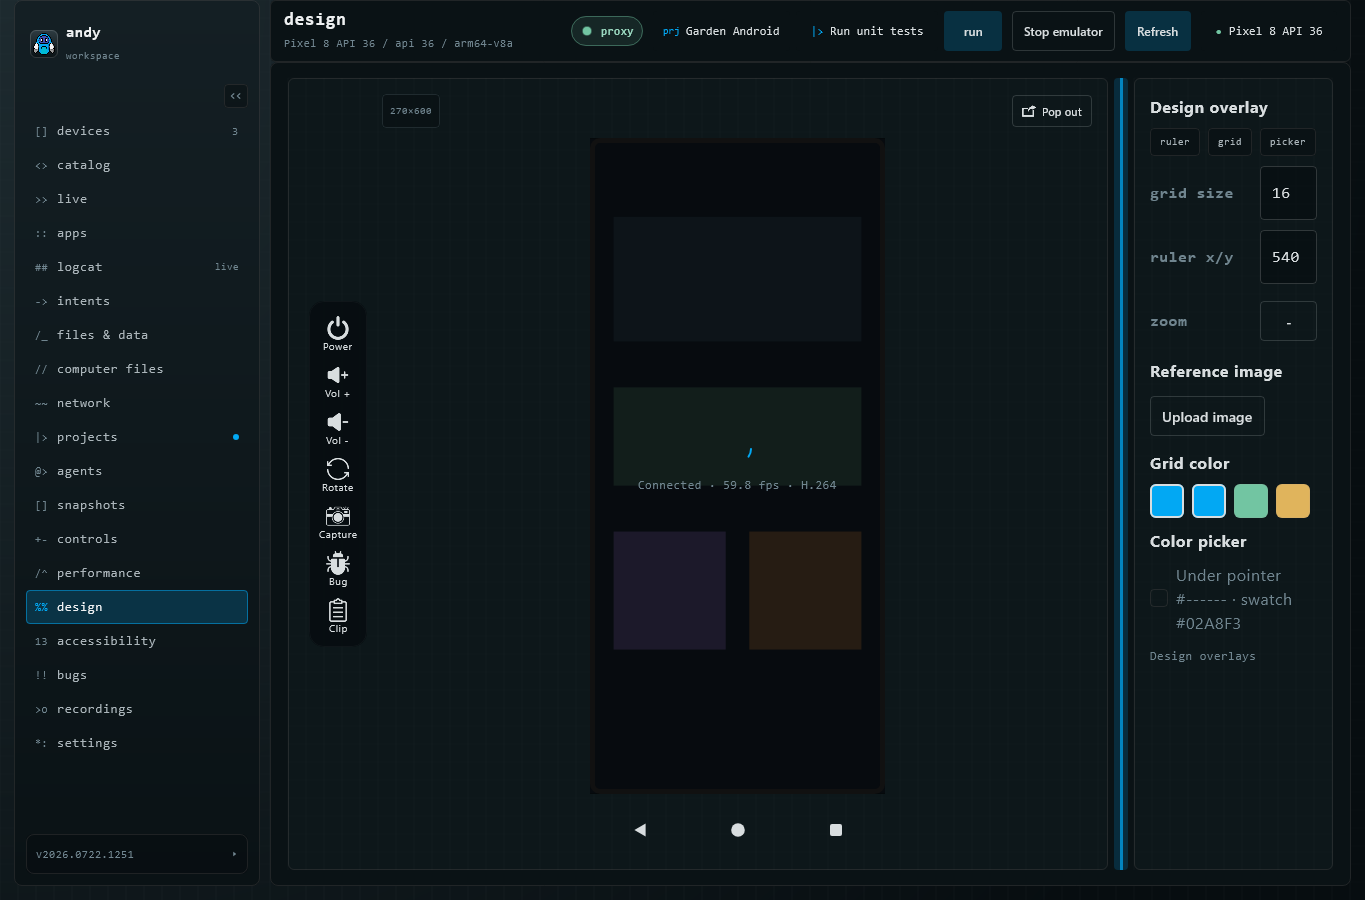
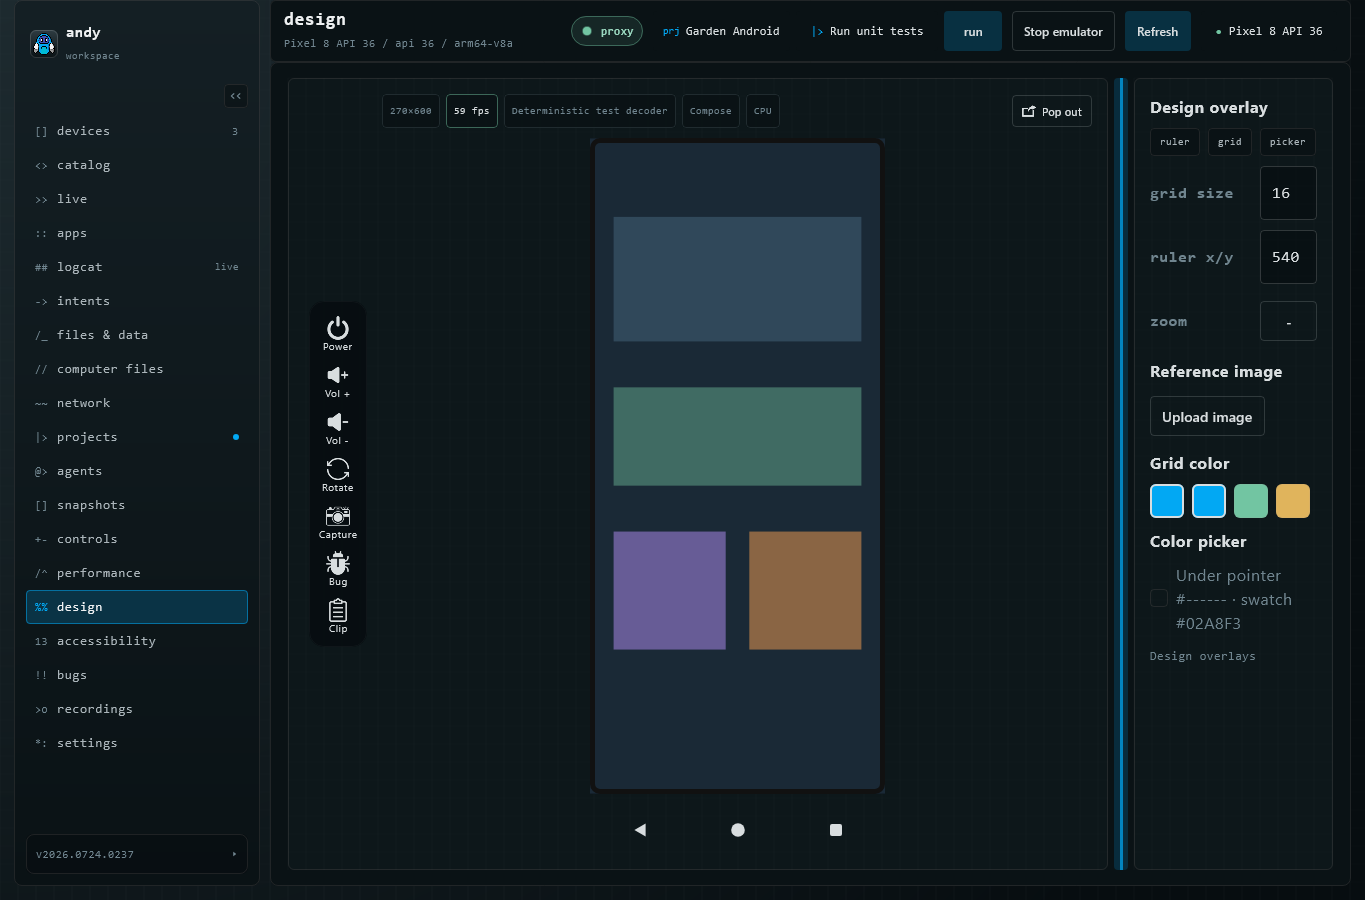
Fix CI failures for terminal integration PR.
Remove the local-only agent store probe, refresh Linux and Windows design-overlay screenshot baselines, relax Roborazzi sub-pixel tolerance for CI runners, and make Windows workflow test artifact writes reliable via PowerShell.

Changed region(s): [[0.4308, 0.1556, 0.6462, 0.9022]]

diff --git a/src/desktopTest/kotlin/app/andy/desktop/service/agents/ProjectWorkflowServiceTest.kt b/src/desktopTest/kotlin/app/andy/desktop/service/agents/ProjectWorkflowServiceTest.kt
@@ -25,6 +25,7 @@ import app.andy.service.CommandResult
 import app.andy.service.McpServerService
 import app.andy.service.WorkspaceStore
 import java.io.File
+import java.util.Base64
 import java.util.Collections
 import kotlin.test.Ignore
 import kotlin.test.Test
@@ -1260,7 +1261,9 @@ private class WorkflowAdapter(
         when (task.workflowStage) {
             ProjectWorkflowStage.Spec -> append(writeArtifactWindows(task, "plan.md", specPlanText()))
             ProjectWorkflowStage.Build -> {
-                if (buildKeepAliveSeconds > 0) append("sleep ").append(buildKeepAliveSeconds)
+                if (buildKeepAliveSeconds > 0) {
+                    append("timeout /t ").append(buildKeepAliveSeconds).append(" /nobreak >nul")
+                }
             }
             ProjectWorkflowStage.Review -> {
                 if (reviewWritesFile) append("echo reviewed change>review-edit.txt & ")
@@ -1281,7 +1284,9 @@ private class WorkflowAdapter(
     private fun writeArtifactWindows(task: AgentTask, name: String, content: String): String {
         val dir = artifactDir(task).replace('/', '\\')
         val file = "$dir\\$name"
-        return "if not exist \"$dir\" mkdir \"$dir\" & echo ${content.replace("\"", "\\\"")}>\"$file\""
+        val encoded = Base64.getEncoder().encodeToString(content.toByteArray(Charsets.UTF_8))
+        return "if not exist \"$dir\" mkdir \"$dir\" & powershell -NoProfile -Command " +
+            "\"[IO.File]::WriteAllBytes('$file', [Convert]::FromBase64String('$encoded'))\""
     }
 
     private fun specPlanText(): String =

diff --git a/src/desktopTest/kotlin/app/andy/AndyDesktopScreenshotTest.kt b/src/desktopTest/kotlin/app/andy/AndyDesktopScreenshotTest.kt
@@ -30,7 +30,7 @@ class AndyDesktopScreenshotTest {
     // Sub-pixel antialiasing on CI runners can flip a few pixels against freshly
     // recorded baselines. Keep the threshold tight so real UI changes still fail.
     private val screenshotOptions = RoborazziOptions(
-        compareOptions = RoborazziOptions.CompareOptions(changeThreshold = 0.0002f),
+        compareOptions = RoborazziOptions.CompareOptions(changeThreshold = 0.0005f),
     )
     private val routeScenarios = listOf(
         AndyScreenshotScenario.DevicesPopulated,